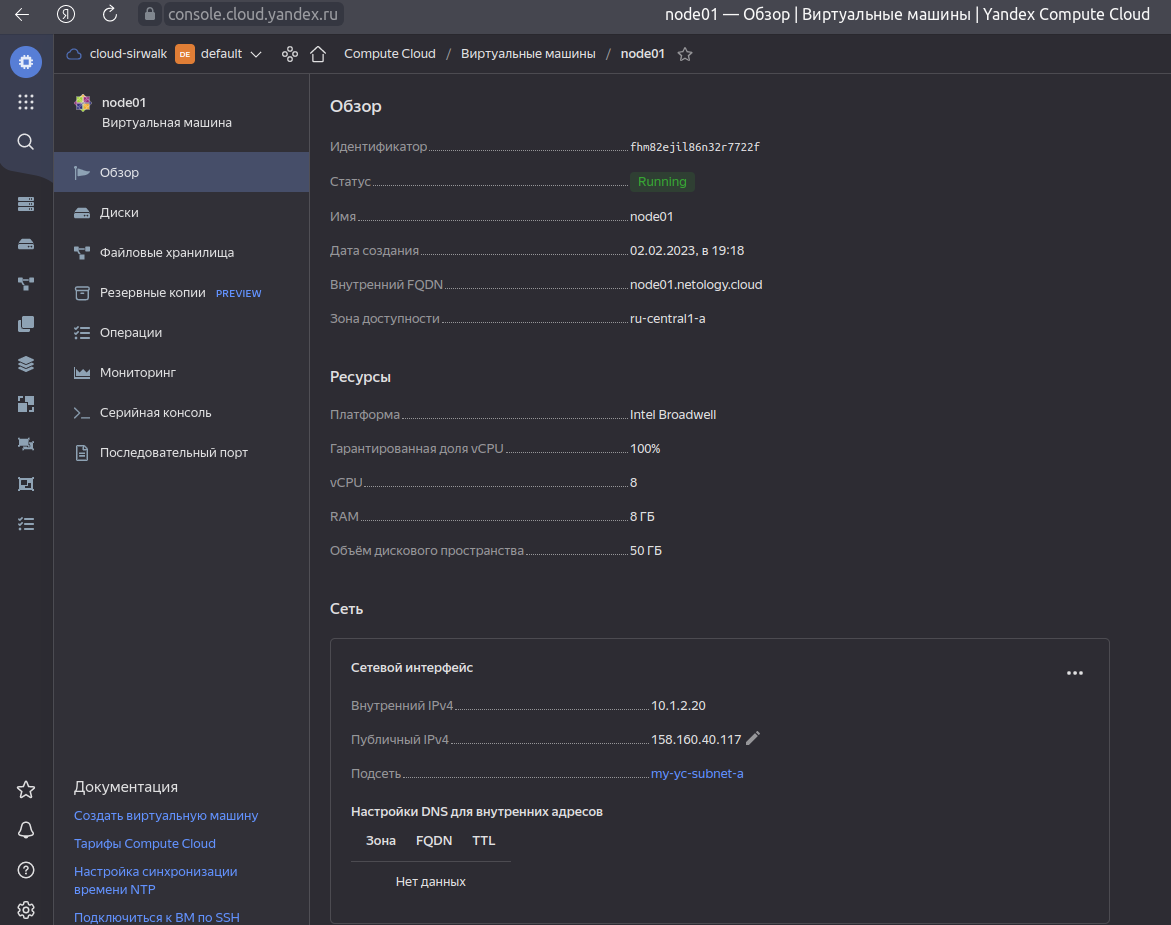
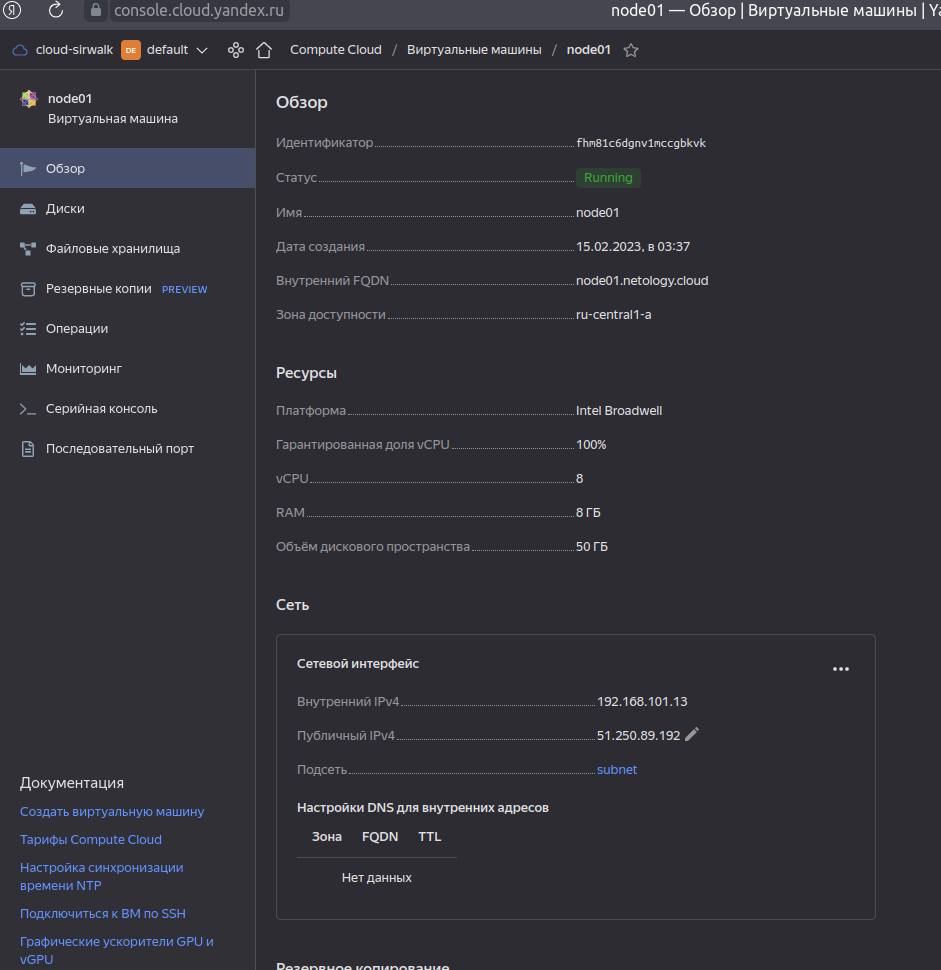
5-virt-4 task 2

diff --git a/Virt/5.4-DockerCompose/README.md b/Virt/5.4-DockerCompose/README.md
@@ -16,14 +16,18 @@
 
 Задача 2
 Создать вашу первую виртуальную машину в YandexCloud с помощью terraform. Используйте terraform код в директории (src/terraform)
+
+![terraform_apply.png](images%2Fterraform_apply.png)
+
 ![task2.png](images%2Ftask2.png)
+
 Для получения зачета, вам необходимо предоставить вывод команды terraform apply и страницы свойств созданной ВМ из личного кабинета YandexCloud.
 
 Задача 3
 С помощью ansible и docker-compose разверните на виртуальной машине из предыдущего задания систему мониторинга на основе Prometheus/Grafana . Используйте ansible код в директории (src/ansible)
 Для получения зачета вам необходимо предоставить вывод команды "docker ps" , все контейнеры, описанные в (docker-compose), должны быть в статусе "Up".
 
-![task3.png](images%2Ftask3.png)
+!
 
 Задача 4
 Откройте веб-браузер, зайдите на страницу http://<внешний_ip_адрес_вашей_ВМ>:3000.
